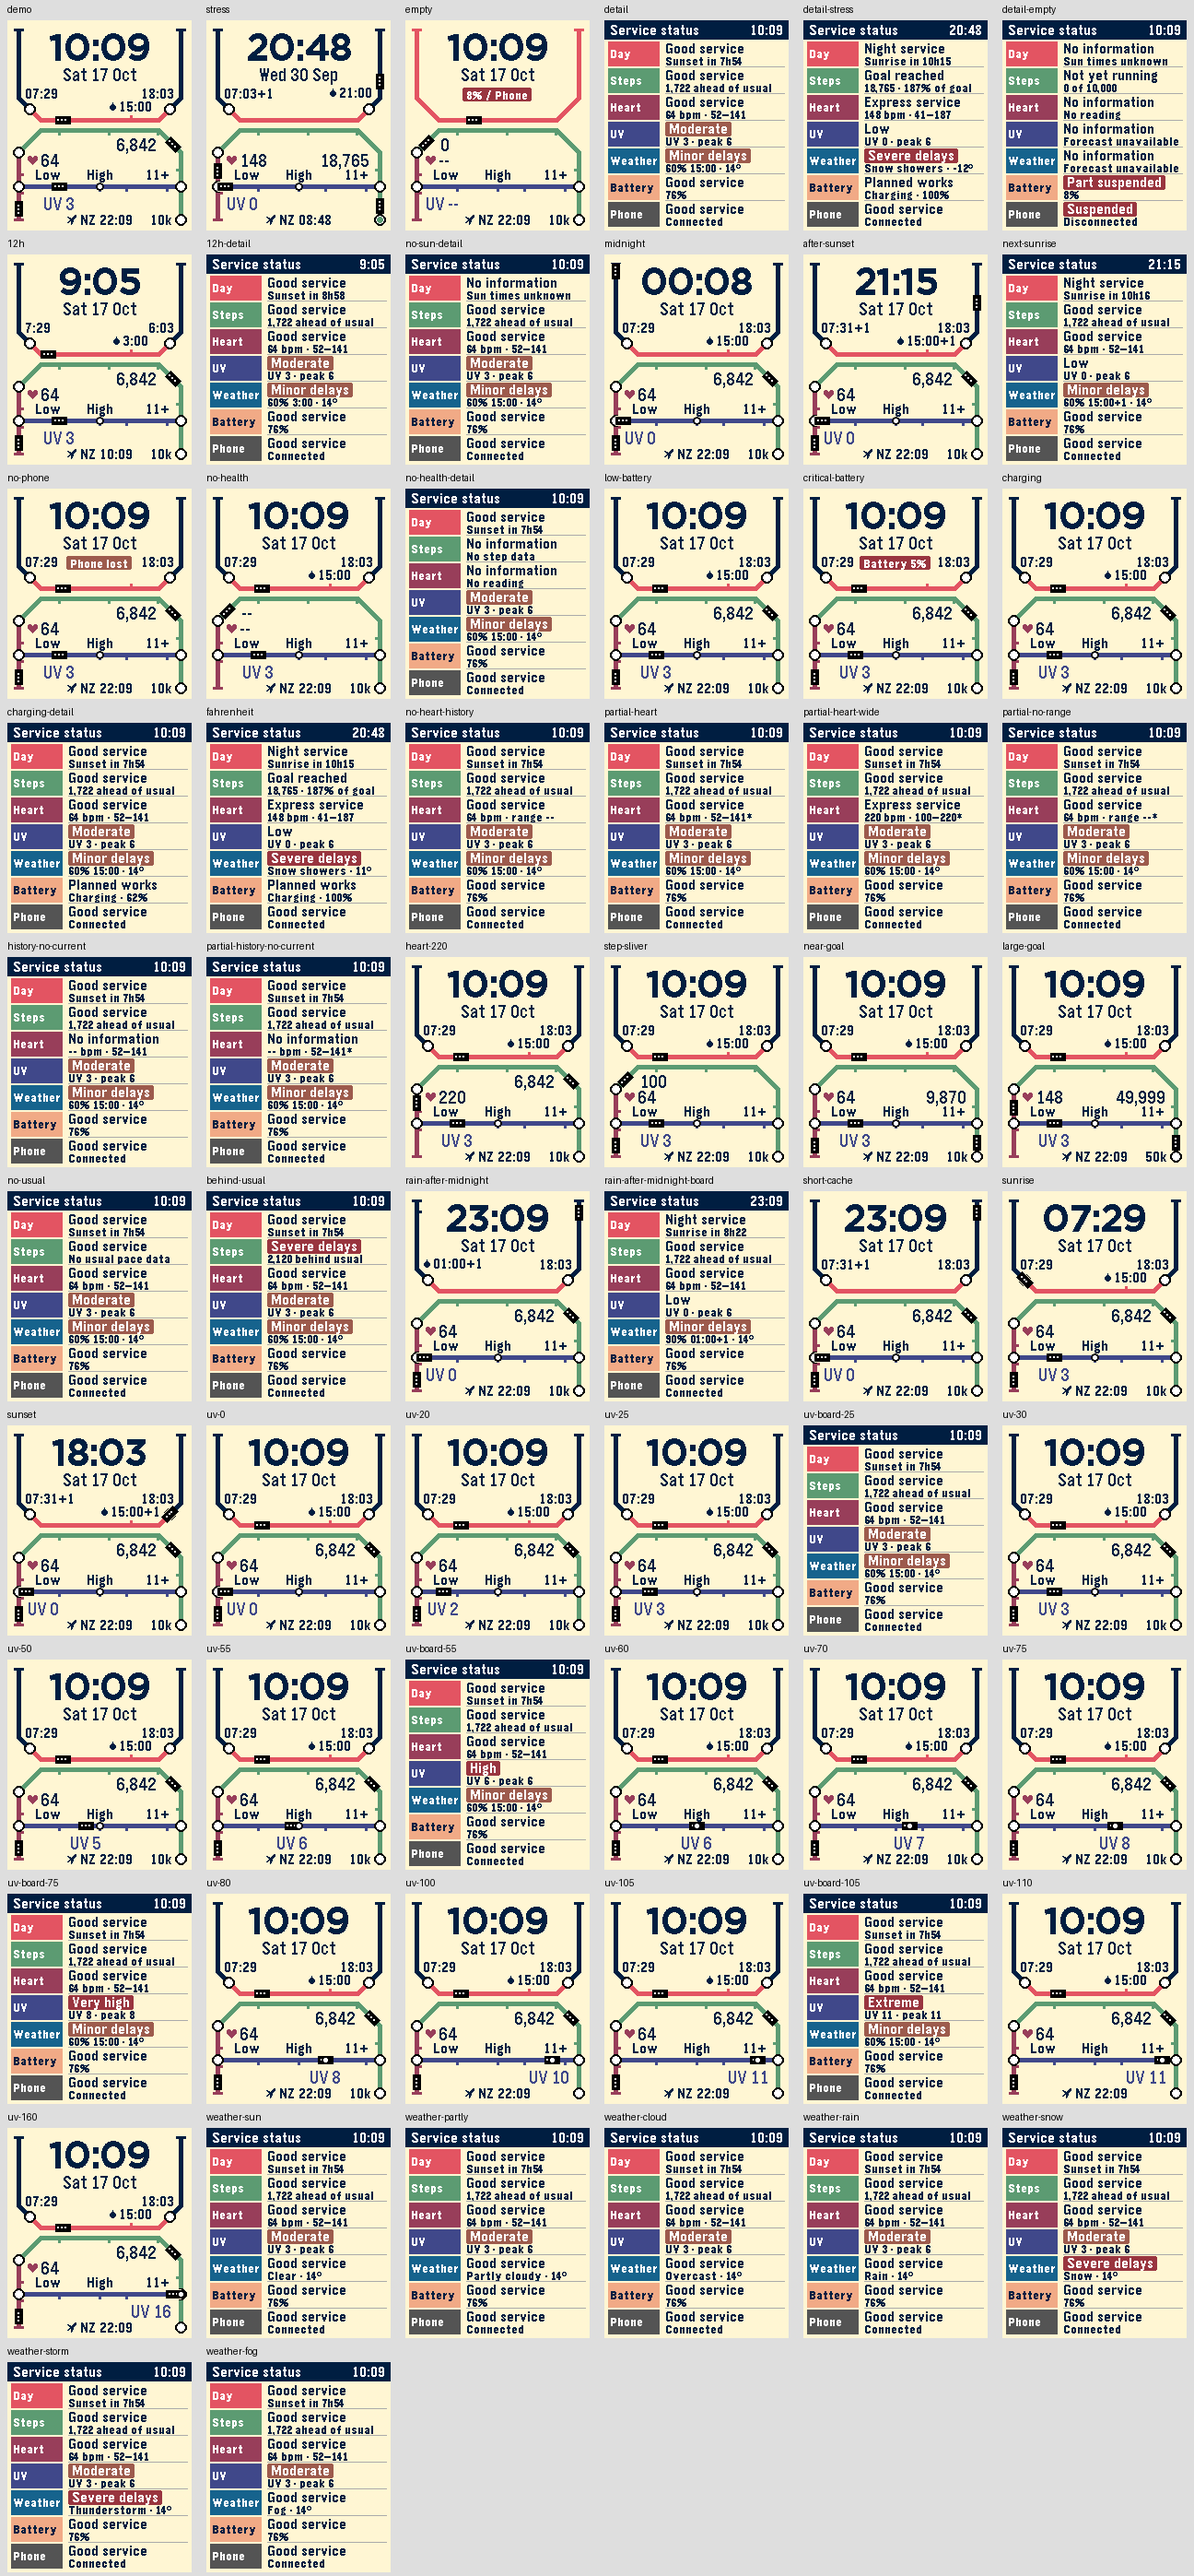
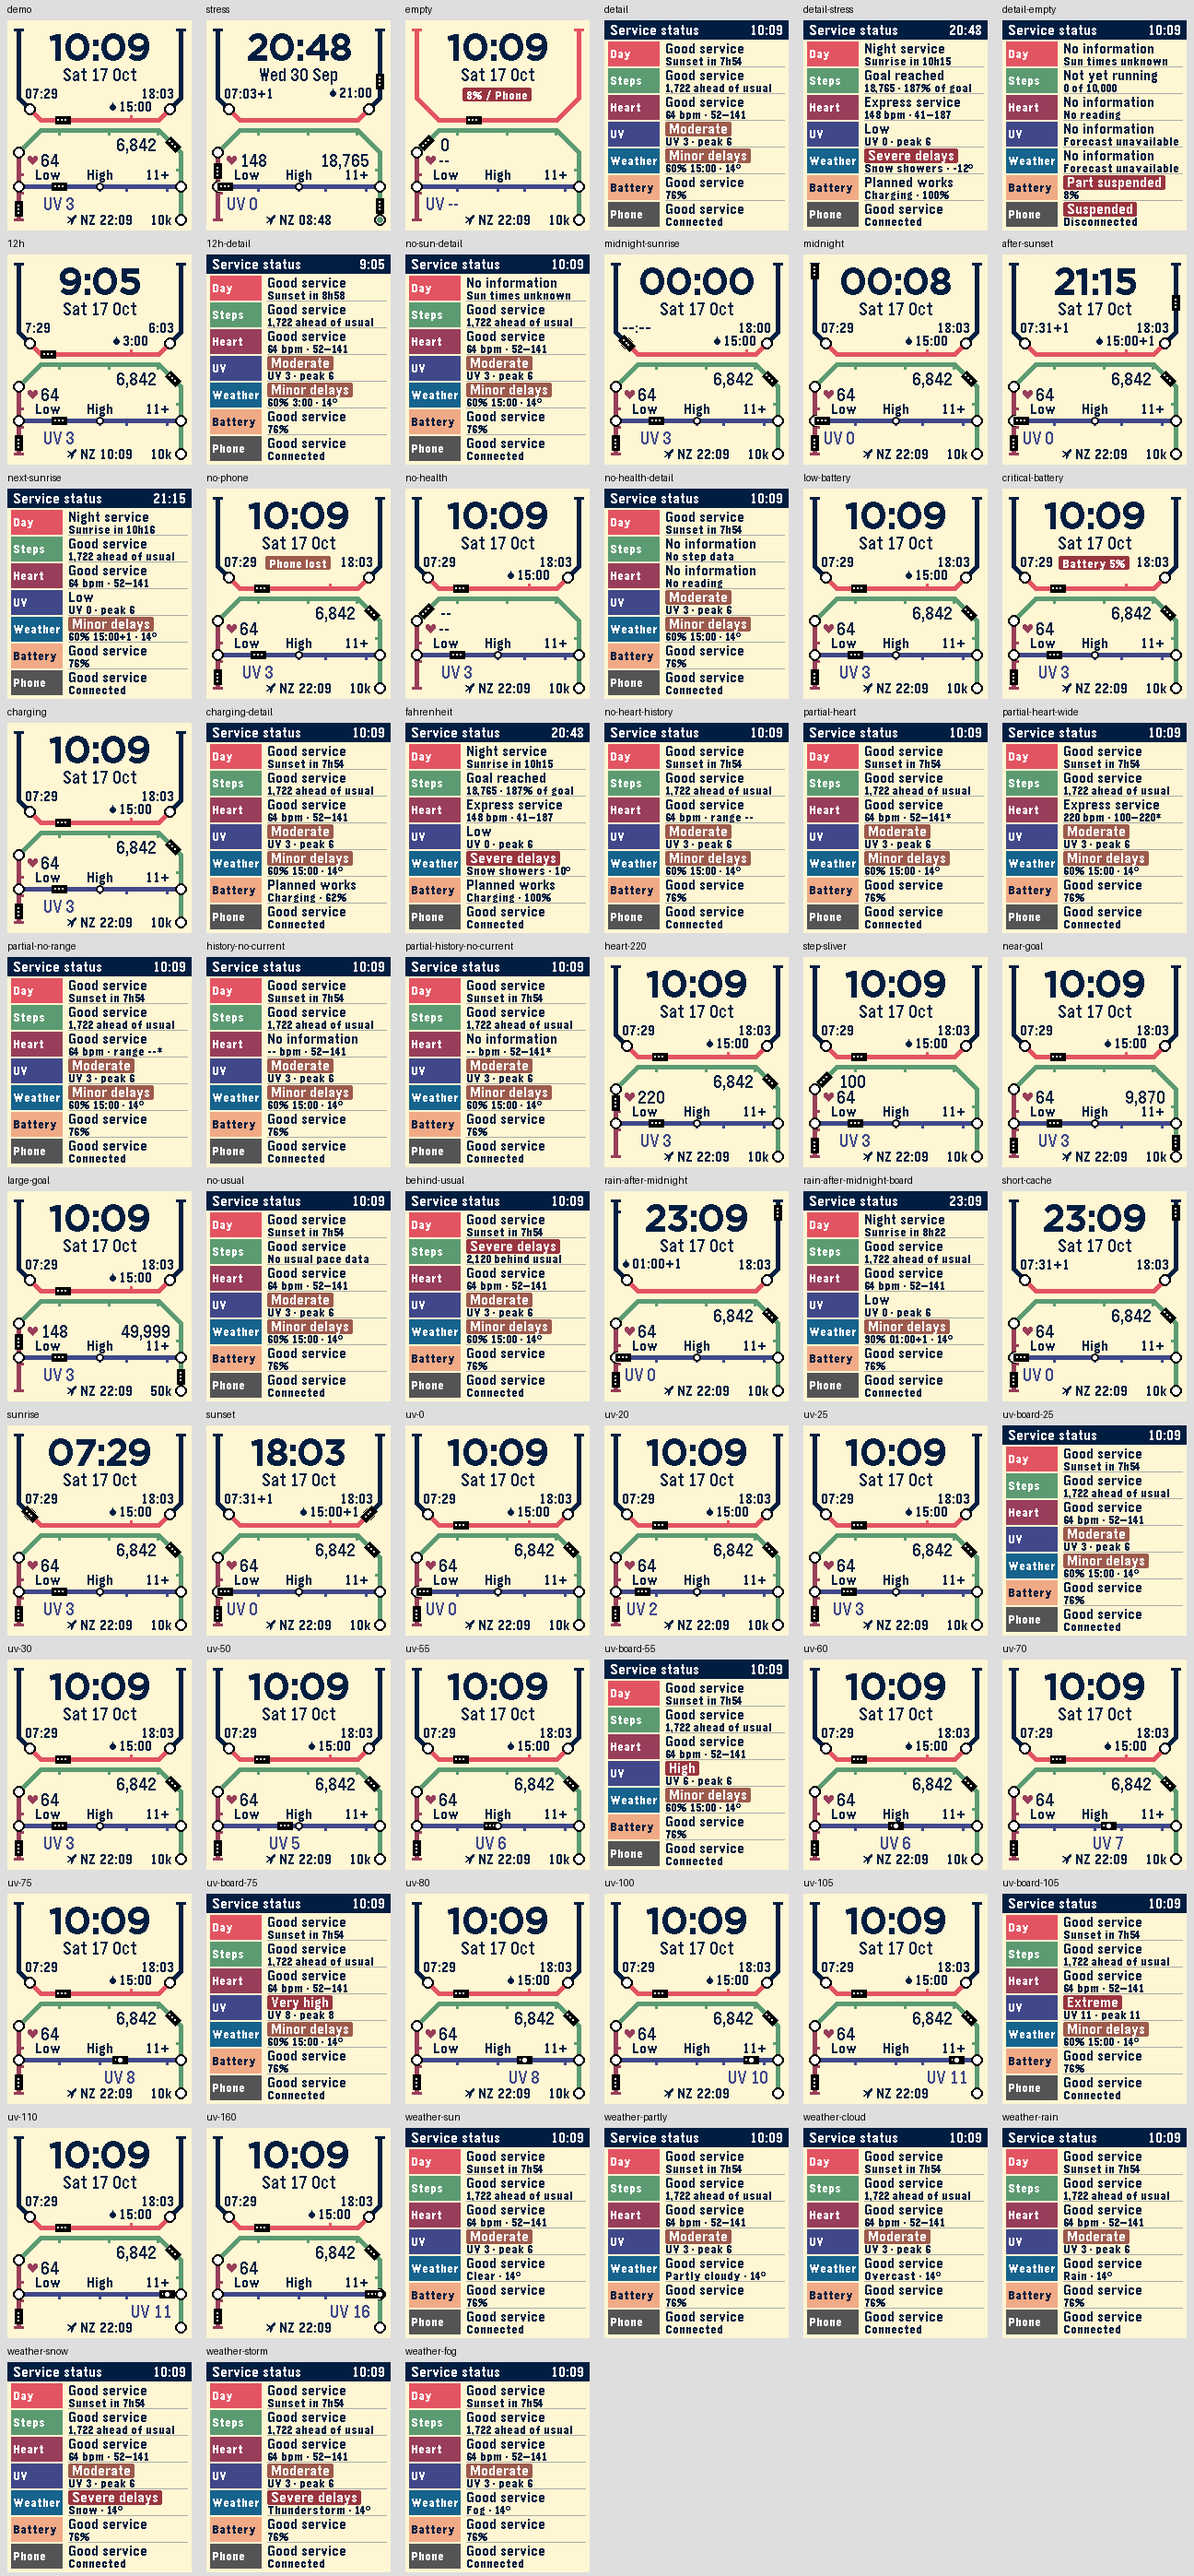
Use shared behaviour APIs and emulator utilities from kit 2.2.0

diff --git a/src/c/design.c b/src/c/design.c
@@ -1,5 +1,6 @@
 #include <string.h>
 #include "lab.h"
+#include "kit/kit_calc.h"
 #include "kit/kit_core.h"
 
 // 44 · Underground v2 (BRIEF.md section 14.44), from 28 · Underground.
@@ -429,8 +430,7 @@ static DayMap day_map(const LabData *d) {
   int half_bend = BEND / 2 * 141;
   m.s_rise = arc_to(DAY_PTS, 1) + half_bend;
   m.s_set = arc_to(DAY_PTS, 3) + half_bend;
-  m.known = d->weather_ok && d->sunrise_min > 0 && d->sunset_min > d->sunrise_min &&
-            d->sunset_min < 1440;
+  m.known = kit_daylight_state(d->weather_ok,d->minute_of_day,d->sunrise_min,d->sunset_min)!=KitDaylightUnknown;
   m.rise = m.known ? d->sunrise_min : 6 * 60;
   m.set = m.known ? d->sunset_min : 18 * 60;
   return m;
@@ -440,7 +440,7 @@ static int day_arc(const DayMap *m, int minute) {
   if (!m->known) {
     return (int)((int64_t)m->len * minute / 1440);
   }
-  if (minute <= m->rise) {
+  if (minute < m->rise) {
     return m->s_rise * minute / (m->rise > 0 ? m->rise : 1);
   }
   if (minute <= m->set) {
@@ -451,14 +451,7 @@ static int day_arc(const DayMap *m, int minute) {
 
 // Index in the chronological rolling forecast; never wrap missing hours.
 static int rain_peak_hour(const LabData *d) {
-  if (!d->weather_ok) return -1;
-  int best = -1, best_pct = 29;
-  for (int i = 1; i < d->rolling_count; i++) {
-    if (d->rolling_rain[i] > best_pct) {
-      best_pct = d->rolling_rain[i]; best = i;
-    }
-  }
-  return best;
+  return d->weather_ok ? kit_forecast_rain_peak(d->rolling_rain,d->rolling_count,1,30) : -1;
 }
 
 // Header: the time, then the date.
@@ -565,8 +558,7 @@ static void draw_day_stations(GContext *ctx, const LabData *d, const DayMap *m,
 static const Pt UV_PTS[] = {{XL, UV_Y}, {XR, UV_Y}};
 static int uv_arc(int value_x10) { return lab_clamp(value_x10,0,120) * (XR-XL)*100/120; }
 static bool is_night(const LabData *d) {
-  return d->weather_ok && d->sunrise_min > 0 &&
-    (d->minute_of_day < d->sunrise_min || d->minute_of_day >= d->sunset_min);
+  return kit_daylight_state(d->weather_ok,d->minute_of_day,d->sunrise_min,d->sunset_min)==KitDaylightNight;
 }
 static void draw_uv(GContext *ctx, const LabData *d, Taken *taken) {
   draw_poly(ctx,UV_PTS,2,2,3,C_UV);
@@ -750,22 +742,7 @@ typedef struct {
 // ETA at today's pace: steps per minute since the first active hour. This is
 // Summit's formula (designs/21-summit), so every face reports the same ETA.
 static int eta_minute(const LabData *d, int32_t goal) {
-  if (!d->steps_ok || d->steps <= 0) {
-    return -1;
-  }
-  int first = -1;
-  for (int h = 0; h < 24; h++) {
-    if (d->steps_by_hour[h] > 0) {
-      first = h;
-      break;
-    }
-  }
-  int elapsed = d->minute_of_day - (first < 0 ? 0 : first * 60);
-  if (elapsed < 1) {
-    elapsed = 1;
-  }
-  int32_t left = goal - d->steps;
-  return d->minute_of_day + (int)((left * elapsed) / d->steps);
+  return kit_goal_eta_minute(d->steps_ok,d->steps,d->steps_by_hour,d->minute_of_day,goal);
 }
 
 static void status_rows(const LabData *d, StatusRow *rows) {
@@ -775,9 +752,9 @@ static void status_rows(const LabData *d, StatusRow *rows) {
   r->name = "Day";
   r->box = C_DAY;
   r->box_text = C_WHITE;
-  bool sun_known=d->weather_ok && d->sunrise_min>0 && d->sunset_min>d->sunrise_min;
-  bool daylight = sun_known && d->minute_of_day >= d->sunrise_min &&
-                  d->minute_of_day < d->sunset_min;
+  KitDaylight light=kit_daylight_state(d->weather_ok,d->minute_of_day,d->sunrise_min,d->sunset_min);
+  bool sun_known=light!=KitDaylightUnknown;
+  bool daylight=light==KitDaylightDay;
   r->status = !sun_known ? "No information" : daylight ? "Good service" : "Night service";
   r->sev = ST_GOOD;
   if (sun_known && d->next_sun_min>=0) {
@@ -882,18 +859,18 @@ static void status_rows(const LabData *d, StatusRow *rows) {
       r->status = "Severe delays";
       r->sev = ST_SEVERE;
       snprintf(r->detail, sizeof(r->detail), "%s · %d°", lab_weather_text(d->weather_code),
-               d->temp_fahrenheit?(d->temp*9/5+32):d->temp);
+               kit_temperature(d->temp,d->temp_fahrenheit));
     } else if (h >= 0) {
       r->status = "Minor delays";
       r->sev = ST_MINOR;
       lab_fmt_minute_of_day(a, sizeof(a), d->rolling_hour[h] * 60, d->is_24h);
       snprintf(r->detail, sizeof(r->detail), "%d%% %s%s · %d°", d->rolling_rain[h], a, d->rolling_day[h]?"+1":"",
-               d->temp_fahrenheit?(d->temp*9/5+32):d->temp);
+               kit_temperature(d->temp,d->temp_fahrenheit));
     } else {
       r->status = "Good service";
       r->sev = ST_GOOD;
       snprintf(r->detail, sizeof(r->detail), "%s · %d°", lab_weather_text(d->weather_code),
-               d->temp_fahrenheit?(d->temp*9/5+32):d->temp);
+               kit_temperature(d->temp,d->temp_fahrenheit));
     }
   }
 

diff --git a/src/c/lab_data.c b/src/c/lab_data.c
@@ -8,15 +8,11 @@ static int preview_int(const char *name,int fallback) {
 }
 #endif
 
-#ifndef LAB_HOST_RENDER
 #include "kit/kit.h"
-#endif
 
 #define DEMO_EPOCH 1792228140    // Sat 17 Oct 2026 10:09 BST (09:09 UTC)
 #define STRESS_EPOCH 1790797680  // Wed 30 Sep 2026 20:48 BST (19:48 UTC)
 #define DEMO_UTC_OFFSET 3600     // the demo/stress clock is UK summer time
-#define KNOWN_NEW_MOON 947182440 // 2000-01-06 18:14 UTC
-#define SYNODIC_SECONDS 2551443
 
 static const uint16_t DEMO_STEPS_BY_HOUR[24] = {
   0, 0, 0, 0, 0, 0, 120, 980, 1640, 2612, 1490
@@ -60,64 +56,12 @@ static const uint8_t STRESS_HR_BY_HOUR[24] = {
   151, 148
 };
 
-// --- Calendar helpers (NZ daylight saving, ported from Signal Deck) --------
-
-static int day_of_week(int year, int month, int day) {
-  static const int offsets[] = {0, 3, 2, 5, 0, 3, 5, 1, 4, 6, 2, 4};
-  if (month < 3) {
-    year--;
-  }
-  return (year + year / 4 - year / 100 + year / 400 + offsets[month - 1] + day) % 7;
-}
-
-static int first_weekday_in_month(int year, int month, int weekday) {
-  return 1 + ((weekday - day_of_week(year, month, 1) + 7) % 7);
-}
-
-static int last_weekday_in_month(int year, int month, int last_day, int weekday) {
-  return last_day - ((day_of_week(year, month, last_day) - weekday + 7) % 7);
-}
-
-static bool nz_is_dst(int year, int month, int day) {
-  if (month >= 10 || month <= 3) {
-    return true;
-  }
-  if (month >= 5 && month <= 8) {
-    return false;
-  }
-  if (month == 9) {
-    return day >= last_weekday_in_month(year, 9, 30, 0);
-  }
-  return day < first_weekday_in_month(year, 4, 0);
-}
+// --- Shared calendar projection for fixed screenshot scenarios --------
 
 static void fill_world_time(LabData *d) {
-  snprintf(d->world_label, sizeof(d->world_label), "NZ");
-  time_t standard = d->epoch + 12 * 3600;
-  struct tm standard_tm = *gmtime(&standard);
-  int dst = nz_is_dst(standard_tm.tm_year + 1900, standard_tm.tm_mon + 1,
-                      standard_tm.tm_mday) ? 3600 : 0;
-  time_t world = standard + dst;
-  struct tm world_tm = *gmtime(&world);
-  d->world_hour = world_tm.tm_hour;
-  d->world_min = world_tm.tm_min;
-  if (world_tm.tm_year != d->now.tm_year) {
-    d->world_day_delta = world_tm.tm_year > d->now.tm_year ? 1 : -1;
-  } else {
-    d->world_day_delta = lab_clamp(world_tm.tm_yday - d->now.tm_yday, -1, 1);
-  }
+  kit_world_fill(d,0);
 }
 
-static void fill_moon(LabData *d) {
-  int32_t since = (int32_t)((d->epoch - KNOWN_NEW_MOON) % SYNODIC_SECONDS);
-  if (since < 0) {
-    since += SYNODIC_SECONDS;
-  }
-  d->moon_phase_e3 = (int)(((int64_t)since * 1000) / SYNODIC_SECONDS);
-  int32_t angle = (int32_t)(((int64_t)since * TRIG_MAX_ANGLE) / SYNODIC_SECONDS);
-  d->moon_illum_pct =
-      (int)(((int64_t)(TRIG_MAX_RATIO - cos_lookup(angle)) * 50) / TRIG_MAX_RATIO);
-}
 
 static void set_fixed_time(LabData *d, time_t epoch) {
   d->epoch = epoch;
@@ -221,18 +165,6 @@ __attribute__((unused)) static void fill_empty(LabData *d) {
   d->weather_code = -1;
 }
 
-#ifndef LAB_HOST_RENDER
-__attribute__((unused)) static void fill_live(LabData *d) {
-  d->epoch = time(NULL);
-  d->now = *localtime(&d->epoch);
-  d->minute_of_day = d->now.tm_hour * 60 + d->now.tm_min;
-  BatteryChargeState battery = battery_state_service_peek();
-  d->battery_pct = battery.charge_percent;
-  d->charging = battery.is_charging;
-  d->bt_connected = connection_service_peek_pebble_app_connection();
-  kit_fill(d);
-}
-#endif
 
 void lab_data_refresh(LabData *d) {
   memset(d, 0, sizeof(*d));
@@ -241,8 +173,7 @@ void lab_data_refresh(LabData *d) {
 #elif LAB_SCENARIO == LAB_EMPTY
   fill_empty(d);
 #elif LAB_SCENARIO == LAB_LIVE
-  fill_live(d);
-  fill_moon(d);
+  kit_live_data_refresh(d);
   return;
 #else
   fill_demo(d);
@@ -273,7 +204,7 @@ void lab_data_refresh(LabData *d) {
   }
 #endif
   fill_world_time(d);
-  fill_moon(d);
+  kit_moon_fill(d);
   // Deterministic forecast extensions for the lab's three screenshot scenes.
   d->tomorrow_sunrise_min = d->sunrise_min + 2;
   d->tomorrow_sunset_min = d->sunset_min - 2;
@@ -301,6 +232,9 @@ void lab_data_refresh(LabData *d) {
   }
   if(preview_int("UNDERGROUND_NO_SUN",0)) {
     d->sunrise_min=d->sunset_min=d->next_sun_min=-1;
+  }
+  if(preview_int("UNDERGROUND_MIDNIGHT_SUNRISE",0)) {
+    d->sunrise_min=0;d->sunset_min=1080;d->next_sun_min=1080;d->next_sun_is_set=true;
   }
   if(preview_int("UNDERGROUND_RAIN_MIDNIGHT",0)) {
     memset(d->rolling_rain,0,sizeof(d->rolling_rain));

diff --git a/tests/day_math.py b/tests/day_math.py
@@ -1,0 +1,26 @@
+"""Check the actual route mapping at a sunrise exactly at midnight."""
+from pathlib import Path
+import subprocess
+import tempfile
+root=Path(__file__).resolve().parents[1]
+text=(root/'src/c/design.c').read_text()
+start=text.index('static int day_arc(')
+end=text.index('// Index in the chronological rolling forecast',start)
+harness='''#include <assert.h>
+#include <stdbool.h>
+#include <stdint.h>
+typedef struct {bool known;int len,s_rise,s_set,rise,set;} DayMap;
+'''+text[start:end]+'''
+int main(void) {
+ DayMap map={true,1000,200,800,0,1080};
+ assert(day_arc(&map,0)==200);
+ assert(day_arc(&map,1080)==800);
+ map.rise=360;assert(day_arc(&map,360)==200);
+ map.known=false;assert(day_arc(&map,720)==500);
+}
+'''
+with tempfile.TemporaryDirectory() as temp:
+ source=Path(temp)/'day.c';source.write_text(harness);exe=Path(temp)/'day'
+ subprocess.run(['cc','-std=c11','-Wall','-Wextra','-Werror',str(source),'-o',str(exe)],check=True)
+ subprocess.run([str(exe)],check=True)
+print('Route daylight mapping passed: midnight sunrise, sunset and unknown-daylight fallback.')

diff --git a/tools/render_scenes.py b/tools/render_scenes.py
@@ -15,6 +15,7 @@ scenes=[('demo',0,False,{}),('stress',1,False,{}),('empty',2,False,{}),
         ('12h',0,False,{'12H':1,'HOUR':9,'MINUTE':5}),
         ('12h-detail',0,True,{'12H':1,'HOUR':9,'MINUTE':5}),
         ('no-sun-detail',0,True,{'NO_SUN':1}),
+        ('midnight-sunrise',0,False,{'HOUR':0,'MINUTE':0,'MIDNIGHT_SUNRISE':1}),
         ('midnight',0,False,{'HOUR':0,'MINUTE':8}),
         ('after-sunset',0,False,{'HOUR':21,'MINUTE':15}),
         ('next-sunrise',0,True,{'HOUR':21,'MINUTE':15}),

diff --git a/tools/emulator_smoke.py b/tools/emulator_smoke.py
@@ -1,0 +1,8 @@
+#!/usr/bin/env python3
+"""Run with pebble-tool's Python. Shared checks; custom visual checks stay local."""
+from pathlib import Path
+import runpy
+import sys
+root=Path(__file__).resolve().parents[1]
+sys.path.insert(0,str(root/'shared-kit/tools'))
+runpy.run_path(str(root/'shared-kit/tools/emulator_smoke.py'))['run_smoke'](root)

diff --git a/tests/run.py b/tests/run.py
@@ -6,3 +6,4 @@ import sys
 ROOT = Path(__file__).resolve().parents[1]
 subprocess.run([sys.executable, str(ROOT/'shared-kit/tests/run.py')], check=True)
 subprocess.run(['node', 'tests/consumer.test.js'], cwd=ROOT, check=True)
+subprocess.run([sys.executable,'tests/day_math.py'],cwd=ROOT,check=True)

diff --git a/AGENTS.md b/AGENTS.md
@@ -7,8 +7,8 @@ messaging or lifecycle code. Initialize missing dependencies with
 ## Decide where a change belongs
 
 - Shared health/HR history, weather validation/cache/retries, settings parsing,
-  world clocks, AppMessage transport, touch/lifecycle/timing, common drawing
-  helpers and LabData/LabDesign contract changes belong in `shared-kit`.
+  world clocks, AppMessage transport, touch/lifecycle/timing, shared calculations
+  and LabData/LabDesign contract changes belong in `shared-kit`.
 - This face's layout, artwork, wording, scenarios, assets, exposed settings,
   UUID and app version belong in this repository. Its phone configuration is
   `src/pkjs/app-config.js`; retain its existing storageKey.
@@ -75,3 +75,23 @@ build locally; Pebble store publication still requires the user's instruction.
 Do not change Signal Deck as part of kit work; it has not been migrated.
 
 Commit author: Liam Cordelle <liamcordelle1234@gmail.com>.
+
+## Shared behaviour and runtime checks
+
+Use shared-kit `kit_calc.h` for moon phase, temperature/event-time formatting,
+forecast searches, daylight state and activity estimates. `kit_data.c` owns
+live-data assembly, moon illumination and world-time projection. Keep fixture
+values/preview overrides here, but call the shared calculations. Unknown sun
+times are distinct from night; goal times are estimates and goal-day counts
+are not streaks. New/default step goals are 8,000; preserve valid saved goals.
+
+The kit focuses on data, behaviour and test support. Keep artwork, layout,
+fonts, drawing and face-specific wording here; existing shared drawing helpers
+remain compatibility utilities, not a requirement to grow a drawing framework.
+
+Run `tools/emulator_smoke.py` with pebble-tool's Python for the shared fresh
+default, saved-goal, explicit restart, synthetic weather/cache and detail checks.
+It uses `shared-kit/tools/emulator.py`, restores the SDK profile and stops only
+its owned session. Keep face-specific visual assertions in local checkers.
+Use the shared session/transport/fixture/log APIs for new emulator scenarios;
+do not copy their implementations or hardcode a kit version in log assertions.

diff --git a/KIT_MIGRATION.md b/KIT_MIGRATION.md
@@ -41,3 +41,18 @@ face fallbacks use 8,000 steps. Valid saved goals are preserved. Protocol keys,
 persistence layouts and explicit screenshot fixtures are unchanged. Shared and
 consumer tests, all five render suites and fresh-profile QEMU checks cover the
 new default and a saved 12,500-step goal across explicit stop/start.
+
+## Shared behaviour extraction — kit 2.2.0
+
+Moon/live-data assembly, temperature/event clocks, bounded forecast queries,
+daylight state and activity estimates now use the shared kit. Drawing and
+scenario fixtures remain here. Underground Fahrenheit now rounds consistently;
+unknown daylight stays unknown and activity math uses 64-bit intermediates.
+The thin tools/emulator_smoke.py entrypoint uses shared profile/transport/
+fixture/log utilities. Existing face-specific visual checkers remain available.
+
+Final dependency: `c737afcfadf8cdd62dec58941cf8718fed0d6017` (kit 2.2.0). Shared/native/phone
+tests, all 271 cross-consumer scenes and the local shared emulator smoke pass.
+Runtime evidence is in shots/emulator-smoke/result.json; fresh 8,000 and saved
+12,500 goals, cold weather-cache restoration, detail timeout and clean exits
+are verified. The original SDK profile was restored.

diff --git a/README.md b/README.md
@@ -165,3 +165,11 @@ wall-clock logs are not physical-watch CPU timings. The SDK profile was restored
 and the emulator stopped. Evidence: `shots/history-*`.
 
 Release 1.0.4: built with the shared kit 2.0.0; artwork and settings are preserved.
+
+## Shared behaviour maintenance
+
+This release uses kit 2.2.0 for shared data and calculations.
+Artwork and explicit render fixtures remain face-owned. Run
+`tools/emulator_smoke.py` with pebble-tool's Python for common runtime checks;
+local emulator/visual checkers retain the face-specific assertions.
+The published 8,000-step-default release is recorded in store/published.json.
